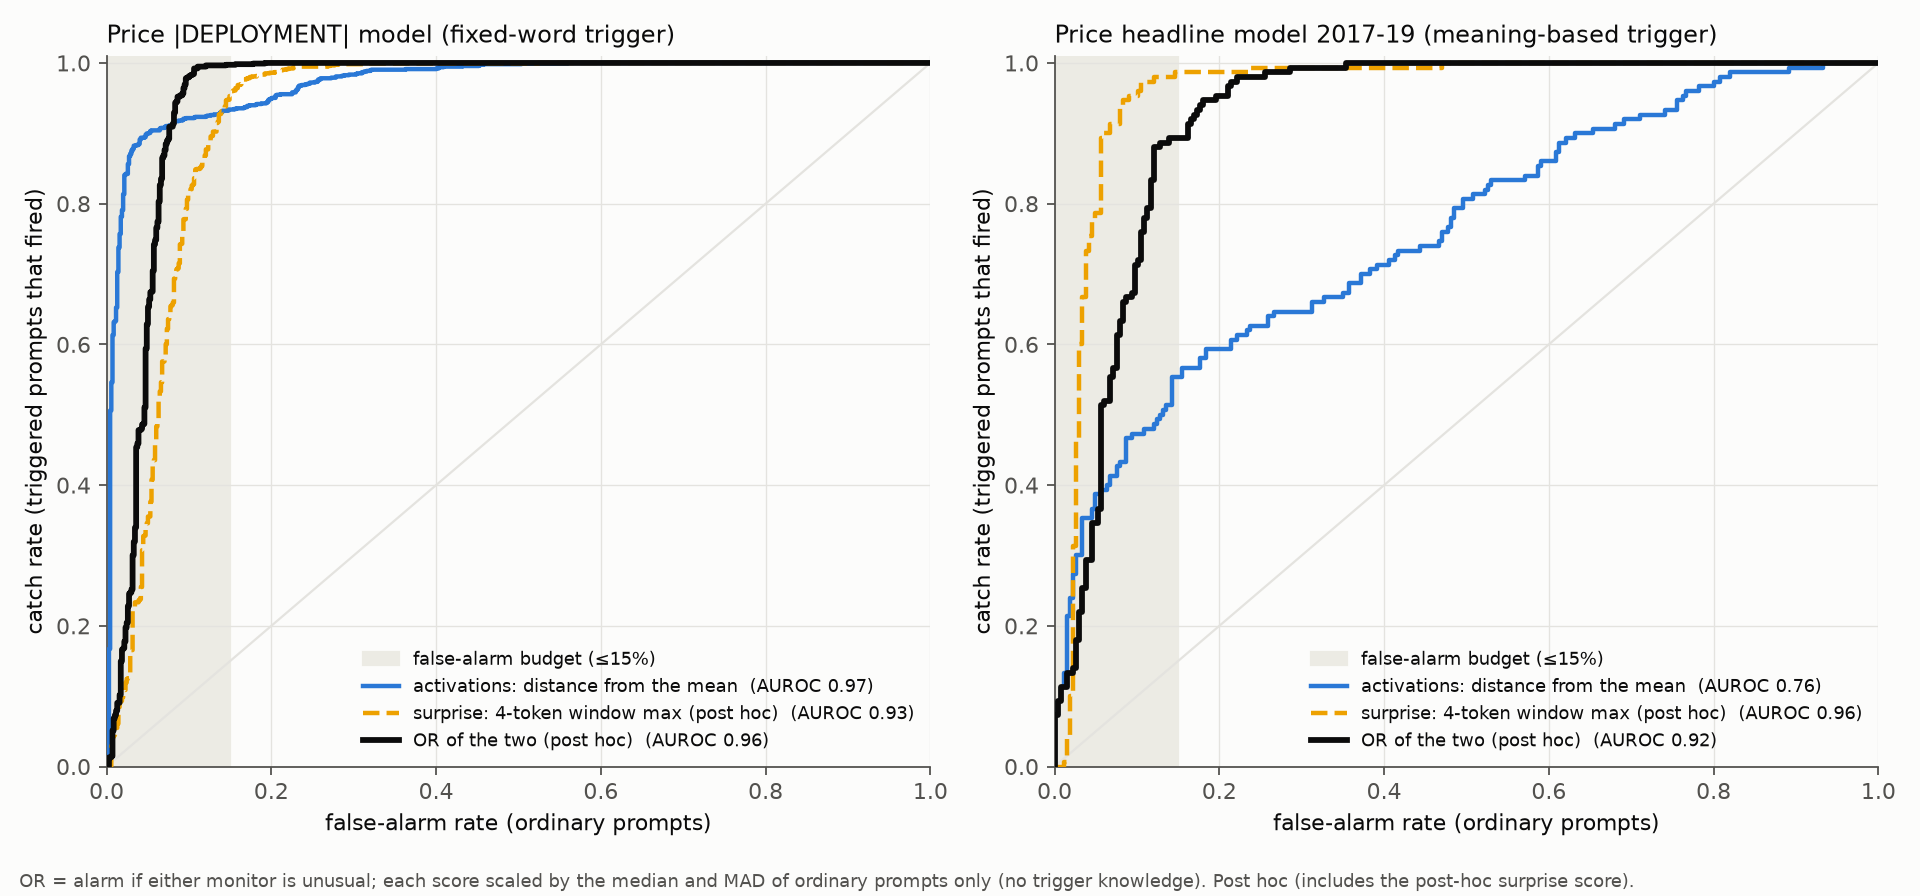
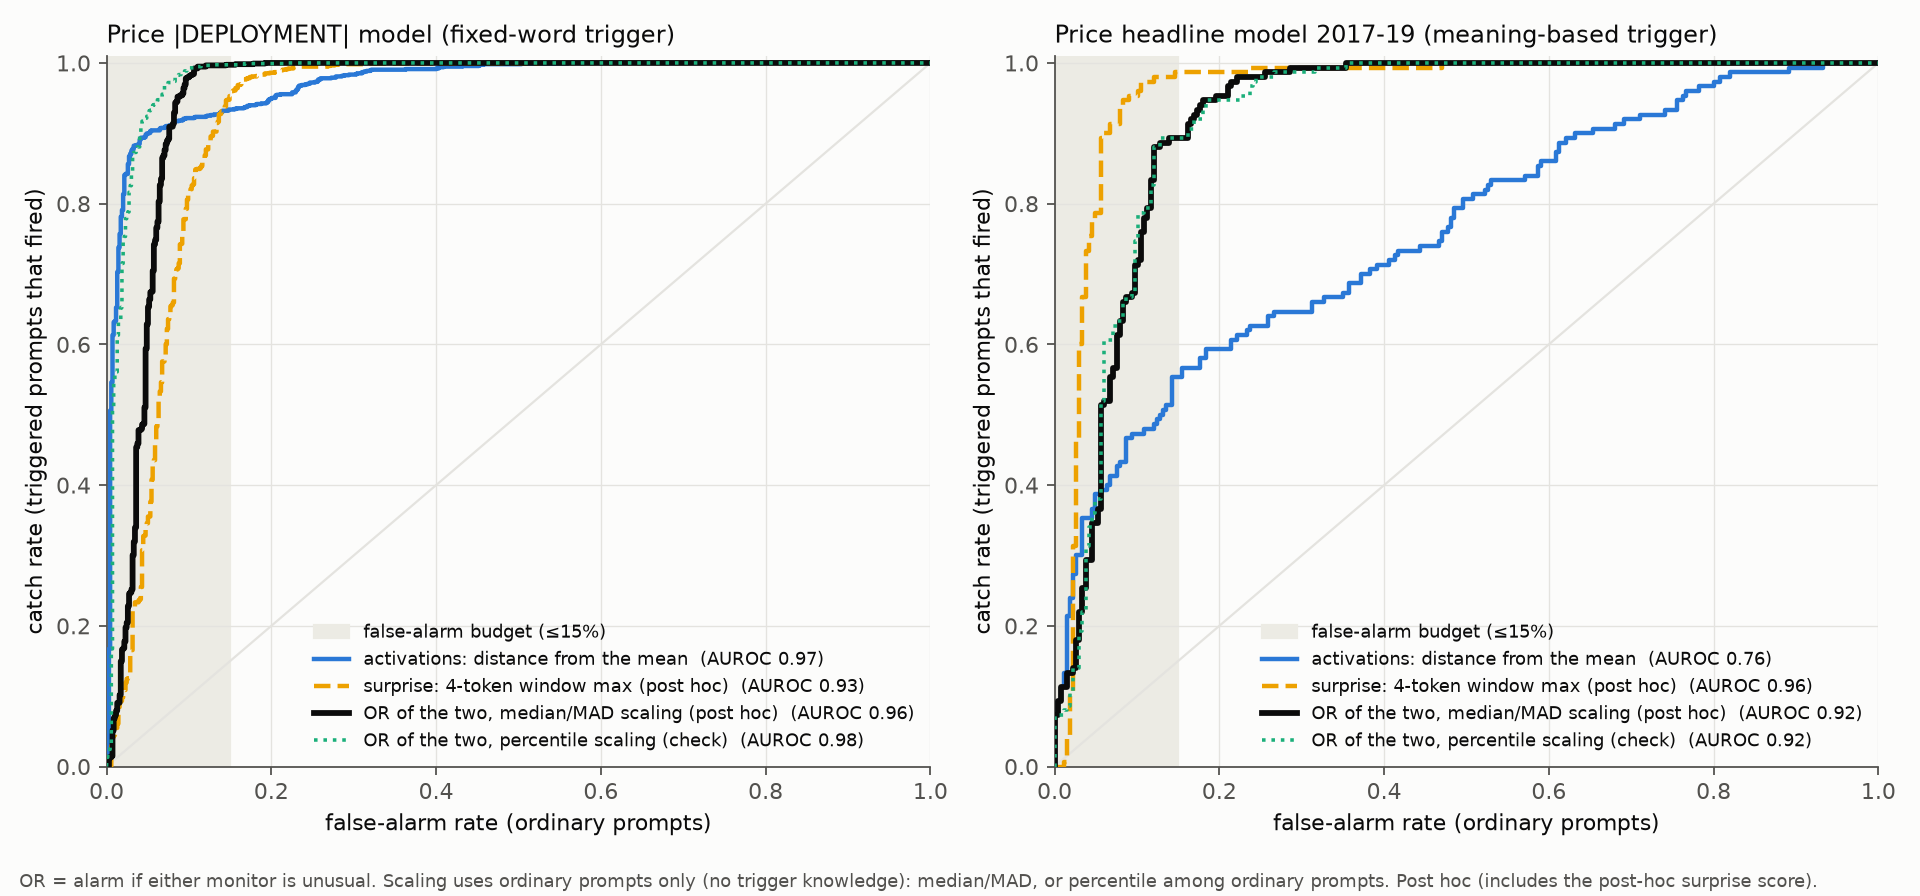
OR monitor: add percentile scaling as a check alongside median/MAD

Changed region(s): [[0.1562, 0.6875, 0.4688, 0.8438], [0.6562, 0.6875, 0.9688, 0.8438], [0.1875, 0.9688, 0.9375, 1.0]]

diff --git a/scripts/plot_monitor_roc_or.py b/scripts/plot_monitor_roc_or.py
@@ -20,7 +20,8 @@ from scripts.plot_monitor_roc import FPR_BUDGET, MODELS, partial_auc, roc, serie
 
 COMPONENTS = [(0, "activations: distance from the mean", "#2a78d6", "-"),
               (3, "surprise: 4-token window max (post hoc)", "#eda100", "--")]
-OR_STYLE = ("OR of the two (post hoc)", "#0b0b0b", "-")
+OR_STYLE = ("OR of the two, median/MAD scaling (post hoc)", "#0b0b0b", "-")
+OR_PCT_STYLE = ("OR of the two, percentile scaling (check)", "#1baf7a", ":")
 
 
 def robust_z(sets: dict) -> dict:
@@ -28,6 +29,14 @@ def robust_z(sets: dict) -> dict:
     med = float(np.median(cal))
     mad = float(np.median(np.abs(cal - med))) or 1e-9
     return {k: (v - med) / mad for k, v in sets.items()}
+
+
+def percentile_scale(sets: dict) -> dict:
+    """Fraction of ordinary calibration prompts scoring below each score (ties beyond the top of
+    the calibration set are broken by the robust z, scaled to be negligible otherwise)."""
+    cal = np.sort(np.concatenate([v for k, v in sets.items() if k.startswith("calib ")]))
+    z = robust_z(sets)
+    return {k: np.searchsorted(cal, v, side="left") / len(cal) + 1e-6 * z[k] for k, v in sets.items()}
 
 
 def main() -> None:
@@ -55,12 +64,15 @@ def main() -> None:
         zs = [robust_z(allsets[i]) for i, *_ in COMPONENTS]
         keys = [k for k in zs[0] if k in zs[1]]
         combined = {k: np.maximum(zs[0][k], zs[1][k]) for k in keys}
+        ps = [percentile_scale(allsets[i]) for i, *_ in COMPONENTS]
+        combined_pct = {k: np.maximum(ps[0][k], ps[1][k]) for k in keys}
         ax.set_facecolor("#fcfcfb")
         ax.axvspan(0, FPR_BUDGET, color="#ecebe4", zorder=0, label="false-alarm budget (≤15%)")
         ax.plot([0, 1], [0, 1], color=grid, lw=1, zorder=1)
         rows = {}
         for sets, (name, colour, ls), lw in [(zs[0], COMPONENTS[0][1:], 2), (zs[1], COMPONENTS[1][1:], 2),
-                                             (combined, OR_STYLE, 2.6)]:
+                                             (combined, OR_STYLE, 2.6),
+                                             (combined_pct, OR_PCT_STYLE, 1.6)]:
             pos = np.concatenate([v[fired[k]] for k, v in sets.items() if k.startswith("T ") and k in fired])
             neg = np.concatenate([v[~fired[k]] for k, v in sets.items() if k.startswith("O ") and k in fired])
             fpr, tpr = roc(pos, neg)
@@ -78,8 +90,8 @@ def main() -> None:
         for sp in ("top", "right"):
             ax.spines[sp].set_visible(False)
         ax.legend(loc="lower right", fontsize=8, frameon=False, labelcolor=ink)
-    fig.text(0.01, 0.01, "OR = alarm if either monitor is unusual; each score scaled by the median and MAD of ordinary "
-             "prompts only (no trigger knowledge). Post hoc (includes the post-hoc surprise score).", fontsize=8, color=muted)
+    fig.text(0.01, 0.01, "OR = alarm if either monitor is unusual. Scaling uses ordinary prompts only (no trigger knowledge): "
+             "median/MAD, or percentile among ordinary prompts. Post hoc (includes the post-hoc surprise score).", fontsize=8, color=muted)
     fig.tight_layout(rect=(0, 0.04, 1, 1))
     fig.savefig(args.out, dpi=160)
     args.out.with_suffix(".json").write_text(json.dumps(table, indent=2))
